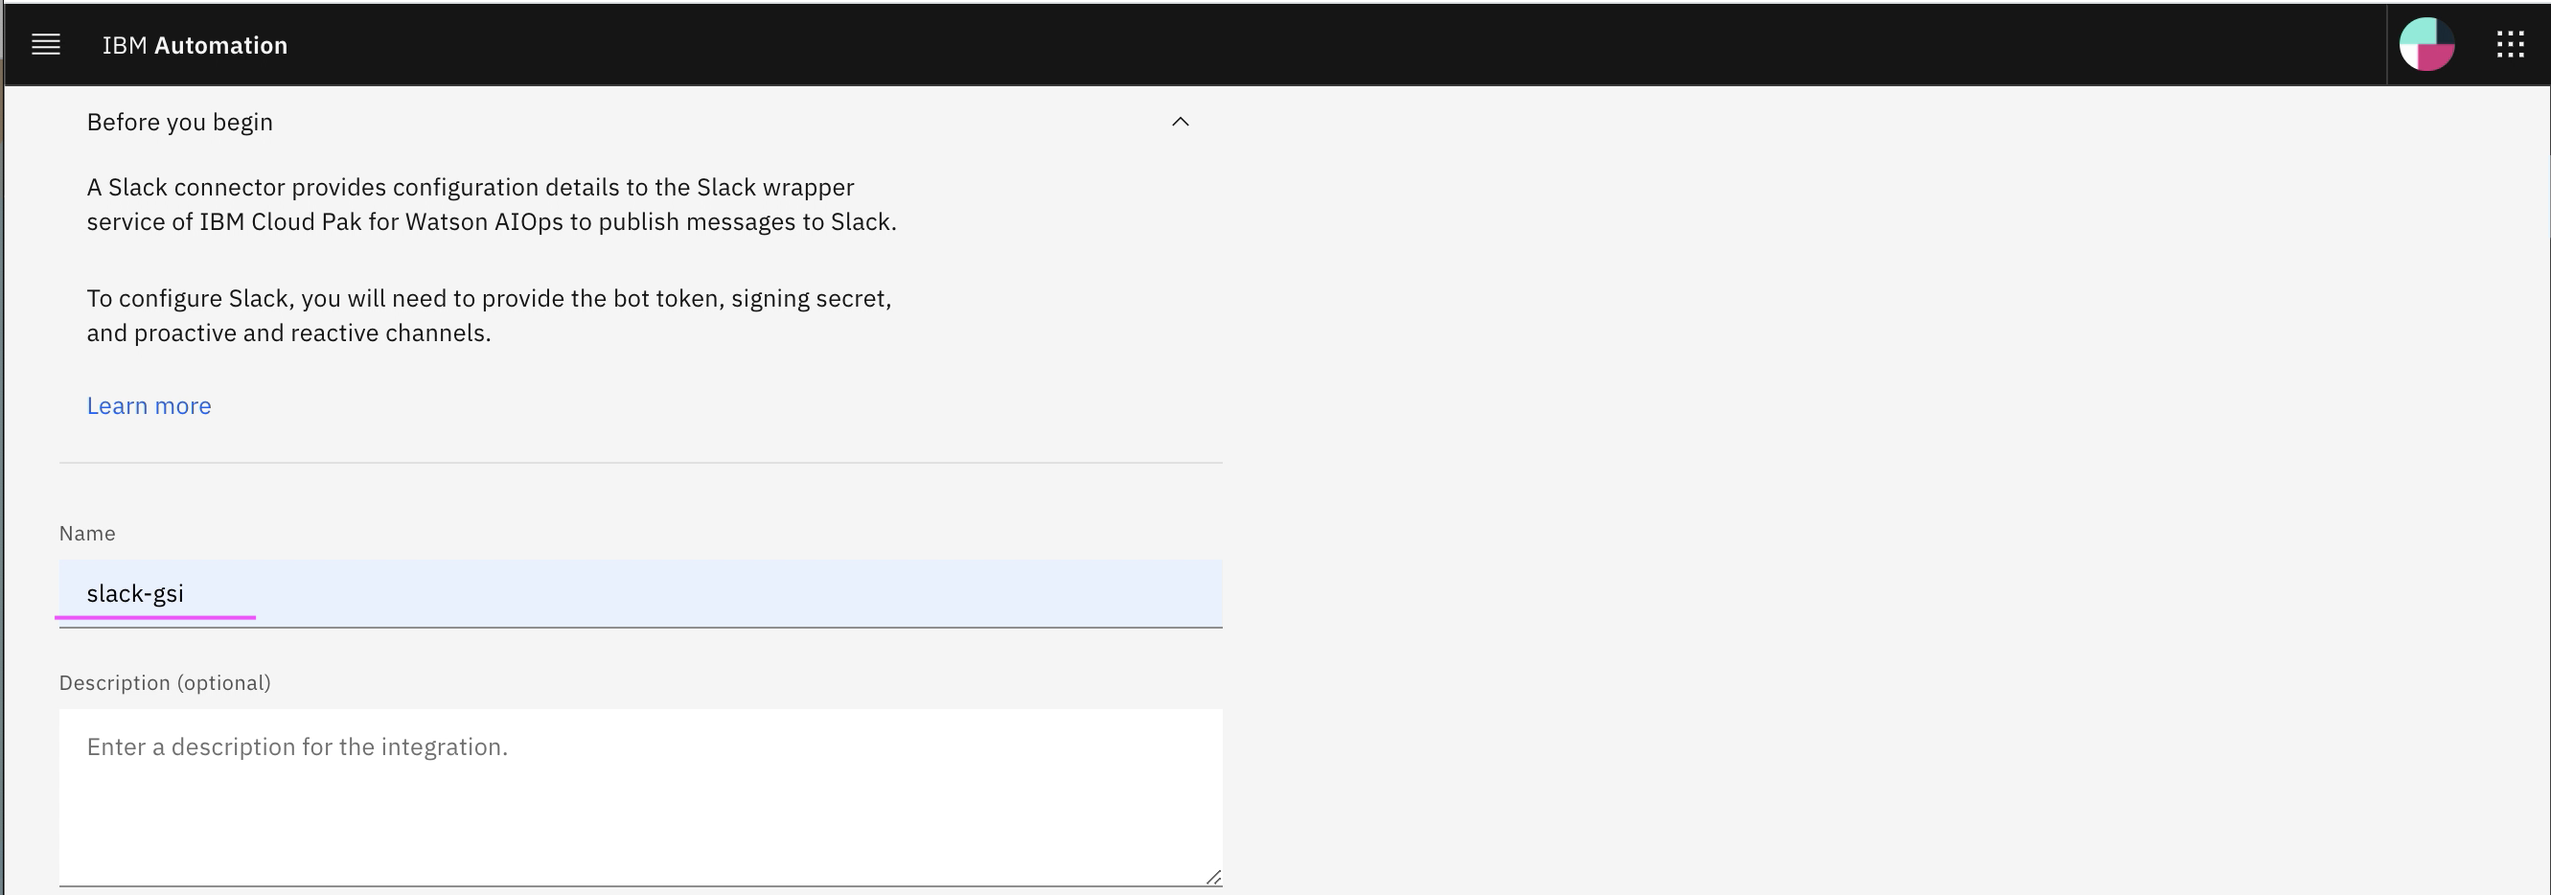
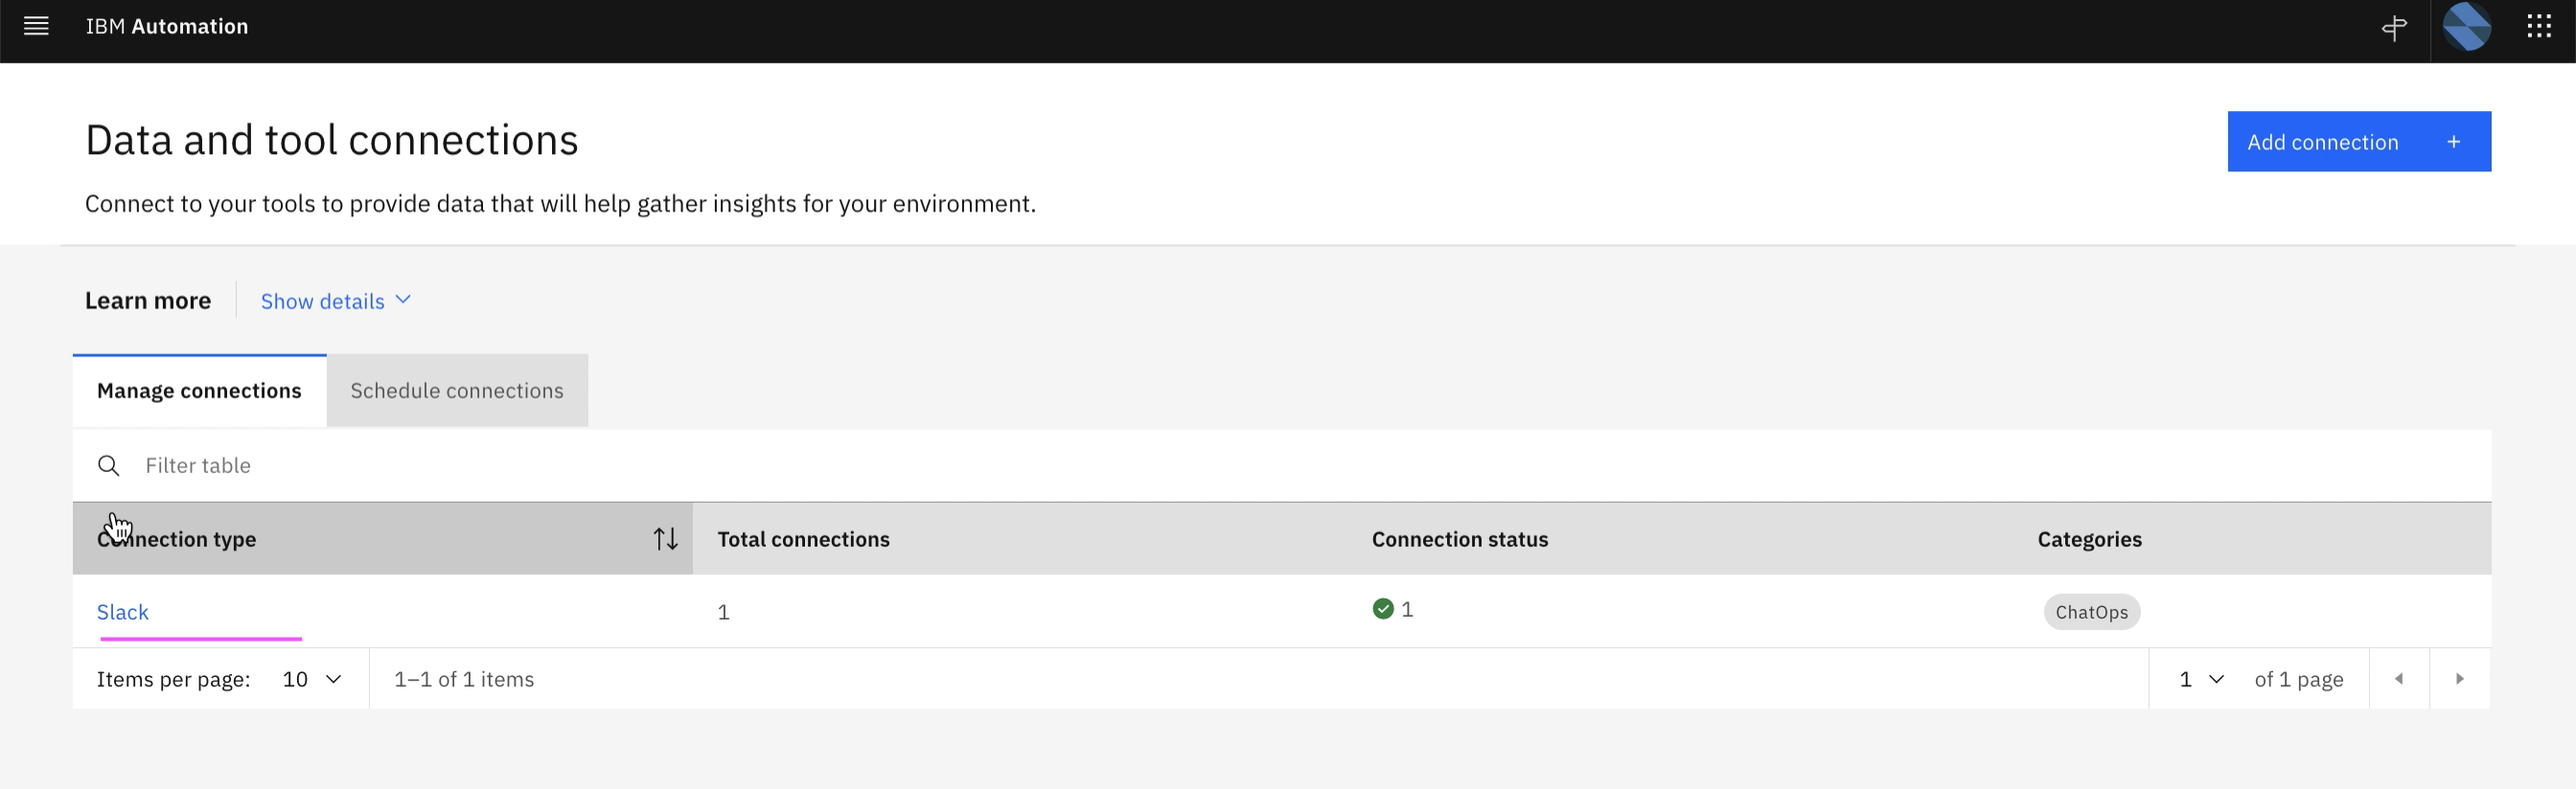
slack

diff --git a/32-integrations-slack/readme.md b/32-integrations-slack/readme.md
@@ -1,9 +1,9 @@
-# Create Slack Account and Integrate in AI-Ops
+# Create Slack Account and Integrate in Watson AIOps
 
 The article is based on the the following
 
-- RedHat OpenShift 4.6 on IBM Cloud (ROKS)
-- Watson AI-Ops 3.1.0
+- RedHat OpenShift 4.8 on IBM Cloud (ROKS)
+- Watson AI-Ops 3.2.0
 
 #### Steps
 
@@ -146,65 +146,65 @@ Do the same for both the channels.
 
 ## 4. Integrate Slack in AI-Ops
 
-In the AI-Ops console, click on `View All` in integration section.
+1. In the AI-Ops console, click on `Data and Tools integration` in home page.
 
-<img src="images/image-00036.png">
+<img src="images/image-00034.png">
 
-Click on `Add Integration` in Slack.
+2. Click on `Add Connection`.
 
-<img src="images/image-00037.png">
+<img src="images/image-00035.png">
 
-Enter some  `Name`.
+3. Enter some  `Name`.
 
-Enter the below fields that we copied above
+4. Enter the below fields that we copied above
 
 - Signing Secret
 - Bot Token
 - Proactive Channel
 - Reactive Channel
 
-Do the `Test Connection`
+5. Do the `Test Connection`
 
-Click on `Integrate` button.
+6. Click on `Save` button.
+
+<img src="images/image-00036.png">
+<img src="images/image-00037.png">
+
+7. See the Slack integration created below
+
+8. Click on the `Slack` link
 
 <img src="images/image-00038.png">
-<img src="images/image-00040.png">
 
-See the Slack integration created below
+9. Copy the slack url
 
-Click on the `1 Integration` link
-
-<img src="images/image-00041.png">
-
-Copy the slack url
-
-<img src="images/image-00042.png">
+<img src="images/image-00039.png">
 
 
 ## 5. Update Nginx Certificate
 
 1. Login into AIOps installed cluster using `oc login ...` command .
 
-2. Goto the AIOps installed namespace`
+2. Goto the AIOps installed namespace
 
 ```
 oc project cp4waiops
 ```
 
-3. There is a script file [update-nginx-v310.sh](./files/update-nginx-v310.sh)
+3. There is a script file [update-nginx-v320.sh](./files/update-nginx-v320.sh)
 
 Run the script.
 
 ```
-sh files/update-nginx-v310.sh
+sh files/update-nginx-v320.sh
 ```
 
 This will update the nginx certificate.
 
-Note: The same script is also available in  https://pages.github.ibm.com/up-and-running/watson-aiops/AI_Manager/Installation/#ngnix-certificate-for-v31
+Note: The similar script is also available in  https://pages.github.ibm.com/up-and-running/watson-aiops/AI_Manager/Installation/#ngnix-certificate-for-v31
 
 
-## 6. Integrate AI-Ops in Slack
+## 6. Integrate WAIOps in Slack
 
 Click on `Event Subscription` from the left menu
 

diff --git a/readme.md b/readme.md
@@ -58,7 +58,7 @@ The pages with the text `Page Status : Final` at the bottom indicates that the m
     <tr>
         <td>2.1</td>
         <td>Install Apache Benche </td>
-        <td>To create load on bookinfo app</td>
+        <td>To create load on the app</td>
         <td>
 
 [Details ...](https://httpd.apache.org/download.cgi)
@@ -233,7 +233,7 @@ The pages with the text `Page Status : Final` at the bottom indicates that the m
     <tr>
         <td>8.1</td>
         <td>Generate Load</td>
-        <td>Generate the load for the bookinfo app.</td>
+        <td>Generate the load for the app.</td>
         <td>
 
 [Details](./21-application-load-generation)

diff --git a/50-ai-model-log-anomaly/readme.md b/50-ai-model-log-anomaly/readme.md
@@ -37,7 +37,7 @@ The article is based on the the following
 - Start Date: Yesterday date
 - End Date: Tomorrow date
 
-(Whiel trianing, we will go for live logs, that will fall under this date range)
+(Whiel training, we will go for live logs and the date of the live logs should fall under this date range)
 
 5. Click on `Next` 
 
